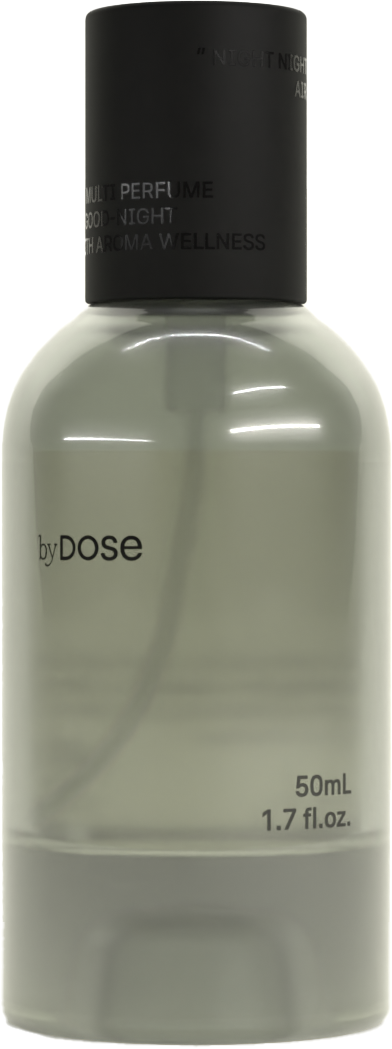
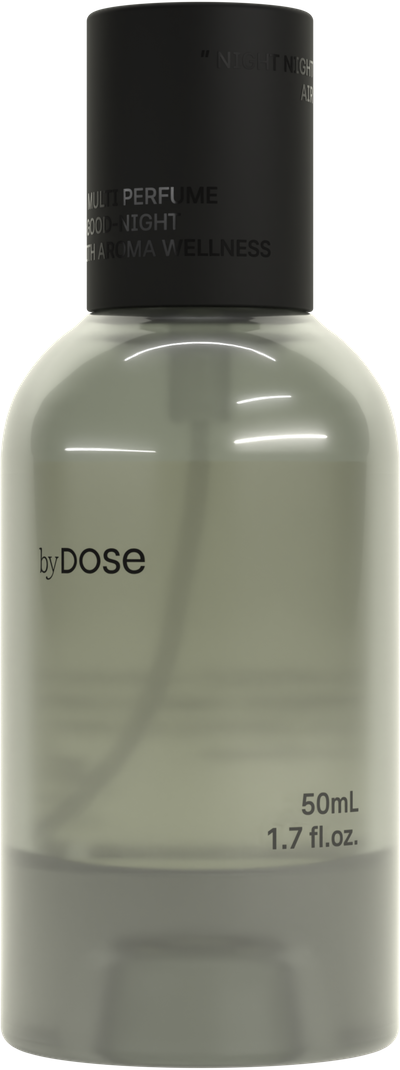
Air page: the four bottle renders (day, dusk, night, off) replace the temporary filters; layers fade over an opaque one
Claude-Session: https://claude.ai/code/session_01CaYfR7izSMtbTnLPYM619P

diff --git a/imweb/product-pages/pages/nightnight-mist.html b/imweb/product-pages/pages/nightnight-mist.html
@@ -961,9 +961,6 @@
   .nnm-jy__end{position:absolute;left:88px;top:40px;padding:0}
 }
 .nnm-jy__shot.has-img{border:0;background:none;border-radius:0}
-.nnm-jy__shot[data-light="dusk"].is-temp img{filter:sepia(.55) saturate(1.6) hue-rotate(-12deg) brightness(.95)}
-.nnm-jy__shot[data-light="night"].is-temp img{filter:brightness(.62) saturate(.7) hue-rotate(190deg) sepia(.15)}
-.nnm-jy__shot[data-light="off"].is-temp img{filter:brightness(.28) saturate(.4)}
 </style>
 
 <div id="nnd-fbar" aria-hidden="true">
@@ -1207,11 +1204,11 @@
     <div class="nnm-jy__track" aria-hidden="true">
       <div class="nnm-jy__pin">
         <div class="nnm-jy__bottle">
-          <!-- 대표 제공 병 PNG(2026-11-20, 낮 조명). 노을·밤·꺼짐은 대표가 만들 PNG가 오기 전까지 같은 그림에 임시 필터(.is-temp) -->
-          <div class="nnm-jy__shot has-img" data-light="day"><img src="/imweb/product-pages/assets/air/bottle-day.png" alt="나잇나잇 에어" width="392" height="1049"></div>
-          <div class="nnm-jy__shot has-img is-temp" data-light="dusk"><img src="/imweb/product-pages/assets/air/bottle-day.png" alt="" width="392" height="1049"></div>
-          <div class="nnm-jy__shot has-img is-temp" data-light="night"><img src="/imweb/product-pages/assets/air/bottle-day.png" alt="" width="392" height="1049"></div>
-          <div class="nnm-jy__shot has-img is-temp" data-light="off"><img src="/imweb/product-pages/assets/air/bottle-day.png" alt="" width="392" height="1049"></div>
+          <!-- 대표 제공 병 렌더 4장(2026-11-20): 낮·노을·밤(램프)·꺼짐. 같은 자리에 겹쳐 스크롤에 따라 섞는다 -->
+          <div class="nnm-jy__shot has-img" data-light="day"><img src="/imweb/product-pages/assets/air/bottle-day.png" alt="나잇나잇 에어" width="400" height="1070"></div>
+          <div class="nnm-jy__shot has-img" data-light="dusk"><img src="/imweb/product-pages/assets/air/bottle-dusk.png" alt="" width="400" height="1070"></div>
+          <div class="nnm-jy__shot has-img" data-light="night"><img src="/imweb/product-pages/assets/air/bottle-night.png" alt="" width="400" height="1070"></div>
+          <div class="nnm-jy__shot has-img" data-light="off"><img src="/imweb/product-pages/assets/air/bottle-off.png" alt="" width="400" height="1070"></div>
         </div>
       </div>
     </div>
@@ -1600,10 +1597,11 @@
       var mid = window.innerHeight / 2;
       var start = ir.top + ir.height / 2, end = lr.top + lr.height / 2;          // 소개 장면 가운데 → 램프 줄 가운데
       var t = Math.max(0, Math.min(1, (mid - start) / Math.max(1, end - start)));
-      var w = function (c, half) { return Math.max(0, 1 - Math.abs(t - c) / half); };
-      if (shots.day) shots.day.style.opacity = t <= 0 ? 1 : w(0, .45);
-      if (shots.dusk) shots.dusk.style.opacity = w(.5, .45);
-      if (shots.night) shots.night.style.opacity = t >= 1 ? 1 : w(1, .45);
+      // 아래 장은 늘 불투명하게 두고 다음 장을 그 위에 덮는다(두 장이 반씩 투명해져 배경이 비치는 것 방지)
+      var ramp = function (a, z) { return Math.max(0, Math.min(1, (t - a) / (z - a))); };
+      if (shots.day) shots.day.style.opacity = 1;
+      if (shots.dusk) shots.dusk.style.opacity = ramp(.05, .5);
+      if (shots.night) shots.night.style.opacity = ramp(.55, 1);
       var nowLanded = end <= mid + 2;
       if (nowLanded !== landed) { landed = nowLanded; manual = null; setLamp(landed); }
     };
